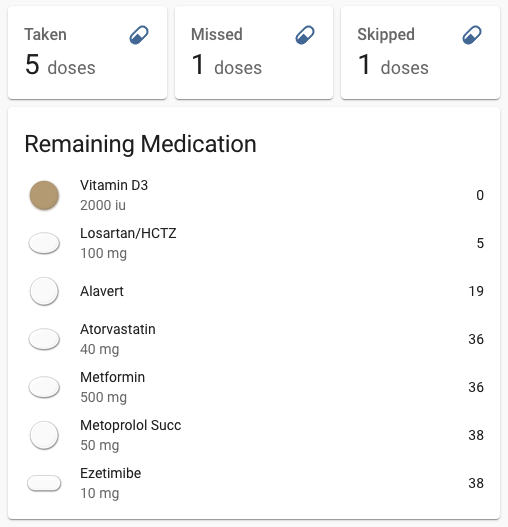
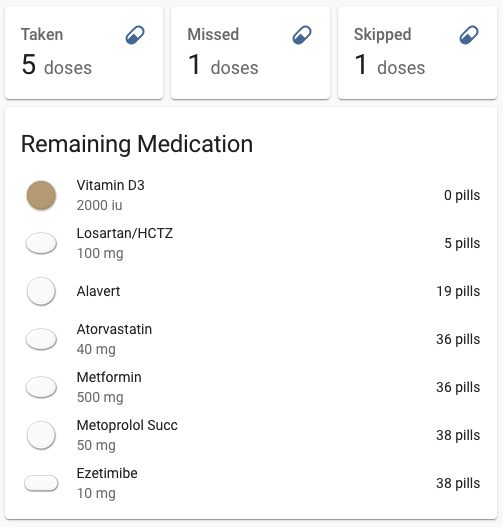
Update sample card

diff --git a/README.md b/README.md
@@ -73,6 +73,7 @@ filter:
         integration: medisafe
       options:
         type: custom:template-entity-row
+        state: '{{ states(config.entity) }} {{ state_attr(config.entity, ''unit_of_measurement'') }}'
         secondary: '{{ state_attr(config.entity, ''dose'') }}'
   exclude:
     - entity_id: sensor.medication_*

diff --git a/info.md b/info.md
@@ -47,6 +47,7 @@ filter:
         integration: medisafe
       options:
         type: custom:template-entity-row
+        state: '{{ states(config.entity) }} {{ state_attr(config.entity, ''unit_of_measurement'') }}'
         secondary: '{{ state_attr(config.entity, ''dose'') }}'
   exclude:
     - entity_id: sensor.medication_*
